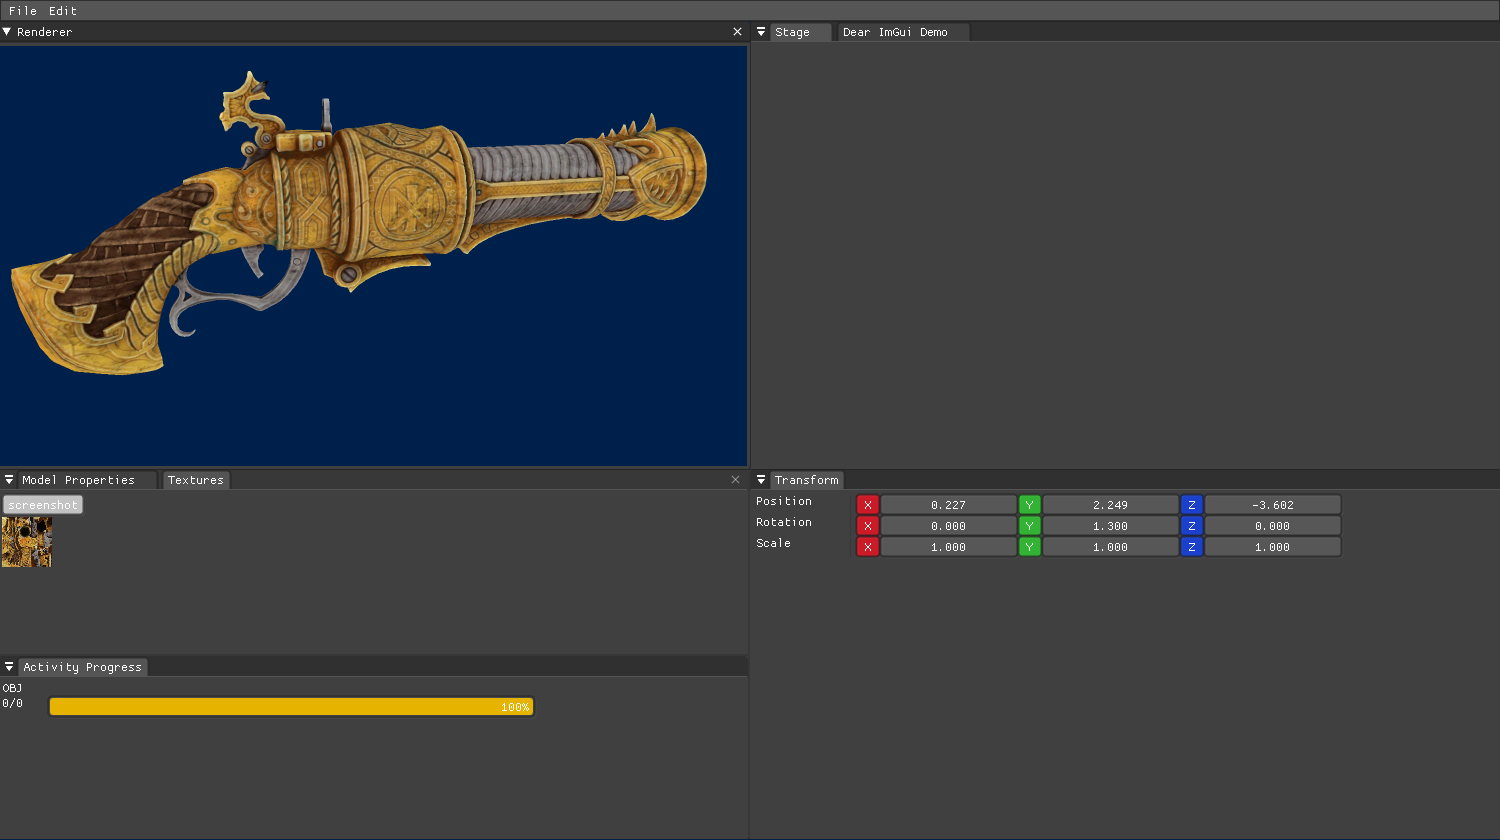
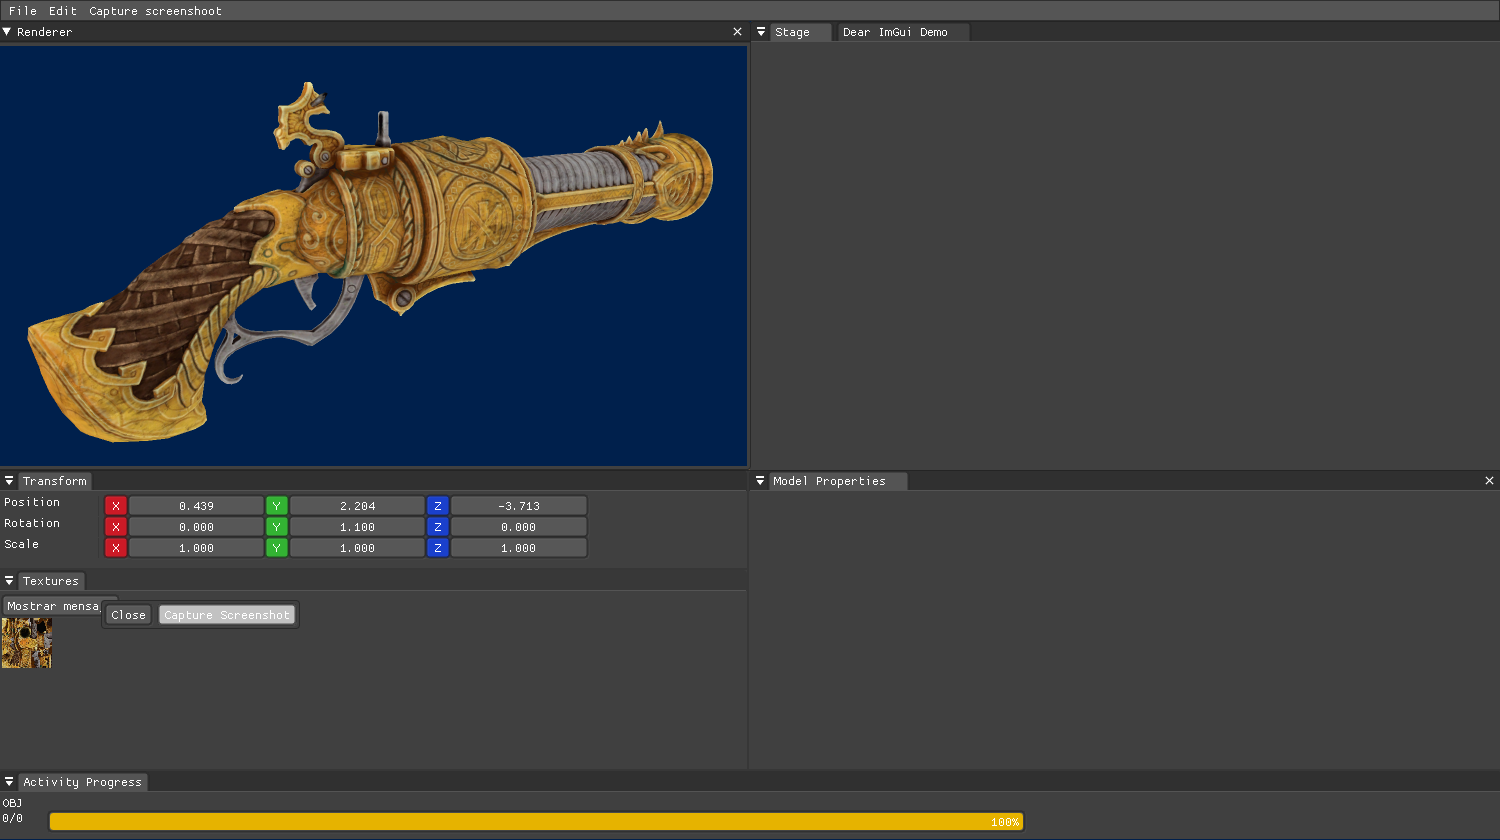
main - Stable version of DirectX Sample

diff --git a/Tutorial07/src/UserInterface.cpp b/Tutorial07/src/UserInterface.cpp
@@ -1,4 +1,8 @@
 #include "UserInterface.h"
+#include "Screenshot.h"
+#include "Window.h"
+#include "SwapChain.h"
+#include "Texture.h"
 
 UserInterface::UserInterface() {
 }
@@ -130,7 +134,7 @@ UserInterface::vec3Control(std::string label, float* values, float resetValues, 
 }
 
 void 
-UserInterface::menuBar() {
+UserInterface::menuBar(Window window, SwapChain swapChain, Texture& backBuffer) {
   if (ImGui::BeginMainMenuBar())
   {
     if (ImGui::BeginMenu("File"))
@@ -146,9 +150,24 @@ UserInterface::menuBar() {
       ImGui::MenuItem("Paste", "Ctrl+V");
       ImGui::EndMenu();
     }
+    if (ImGui::BeginMenu("Capture screenshoot"))
+    {
+      //Screenshot sc;
+      //sc.captureScreenshot(window,swapChain, backBuffer );
+      ImGui::EndMenu();
+    }
     ImGui::EndMainMenuBar();
   }
 
+}
+
+void 
+UserInterface::Renderer(Window window, ID3D11ShaderResourceView* renderTexture) {
+  bool Stage = true;
+  ImGui::Begin("Renderer", &Stage, ImGuiWindowFlags_NoMove | ImGuiWindowFlags_NoResize);
+  ImTextureID texId = (ImTextureID)renderTexture;
+  ImGui::Image(texId, ImVec2(window.m_width / 2, window.m_height / 2));
+  ImGui::End();
 }
 
 void 

diff --git a/Tutorial07/Include/UserInterface.h b/Tutorial07/Include/UserInterface.h
@@ -4,6 +4,11 @@
 #include "imgui_impl_win32.h"
 #include "imgui_impl_dx11.h"
 #include <imgui_internal.h>
+
+class Window;
+class SwapChain;
+class Texture;
+
 class 
 UserInterface {
 public:
@@ -29,7 +34,10 @@ public:
       float columnWidth = 100.0f);
 
   void 
-  menuBar();
+  menuBar(Window window, SwapChain swapChain, Texture& backBuffer);
+
+  void
+  Renderer(Window window, ID3D11ShaderResourceView* renderTexture);
 
   void
   darkStyle();

diff --git a/Tutorial07/Include/Screenshot.h b/Tutorial07/Include/Screenshot.h
@@ -1,0 +1,22 @@
+#pragma once
+#include "Prerequisites.h"
+#include "UserInterface.h"
+
+class Window;
+class SwapChain;
+class Texture;
+
+class 
+Screenshot {
+public:
+	Screenshot() = default;
+	~Screenshot() {};
+
+	void
+	captureScreenshot(Window window, SwapChain swapChain, Texture& backBuffer);
+
+	void
+	ui(Window window, SwapChain swapChain, Texture& backBuffer);
+private:
+
+};

diff --git a/Tutorial07/src/ModelLoader.cpp b/Tutorial07/src/ModelLoader.cpp
@@ -26,7 +26,6 @@ ModelLoader::destroy() {
 
 LoadData 
 ModelLoader::Load(std::string objFileName) {
-
   // Temporal Load Data
   LoadData LD;
   objl::Loader Loader;

diff --git a/Tutorial07/Include/Commons.h b/Tutorial07/Include/Commons.h
@@ -37,3 +37,4 @@ Vector3f {
   float y = 0.0f;
   float z = 0.0f;
 };
+
